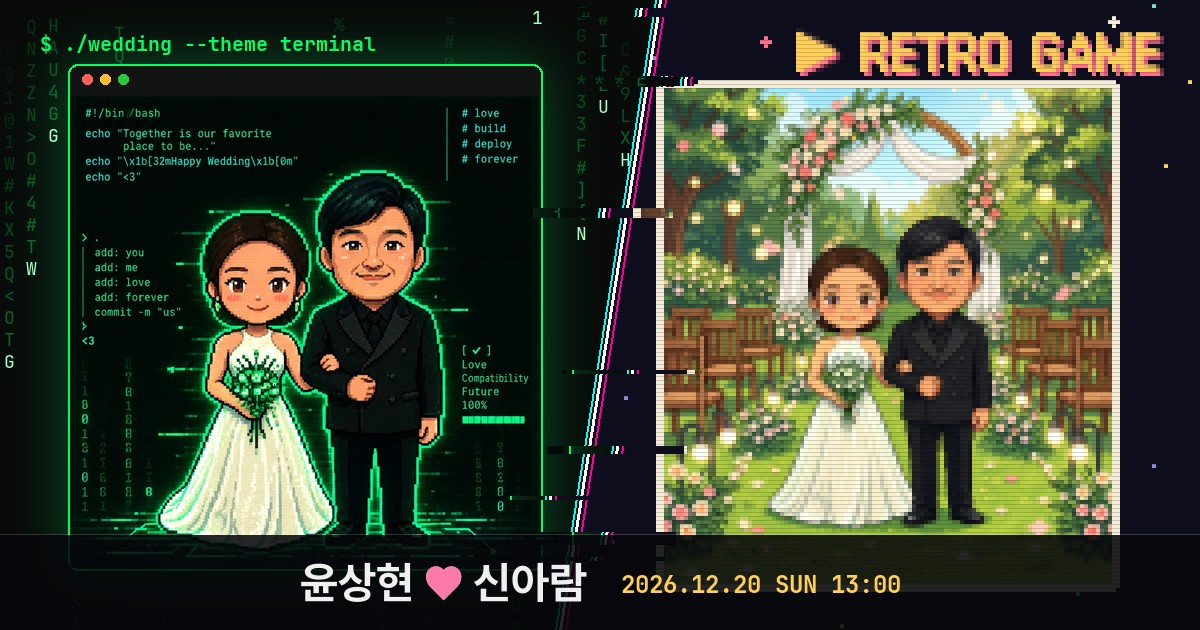
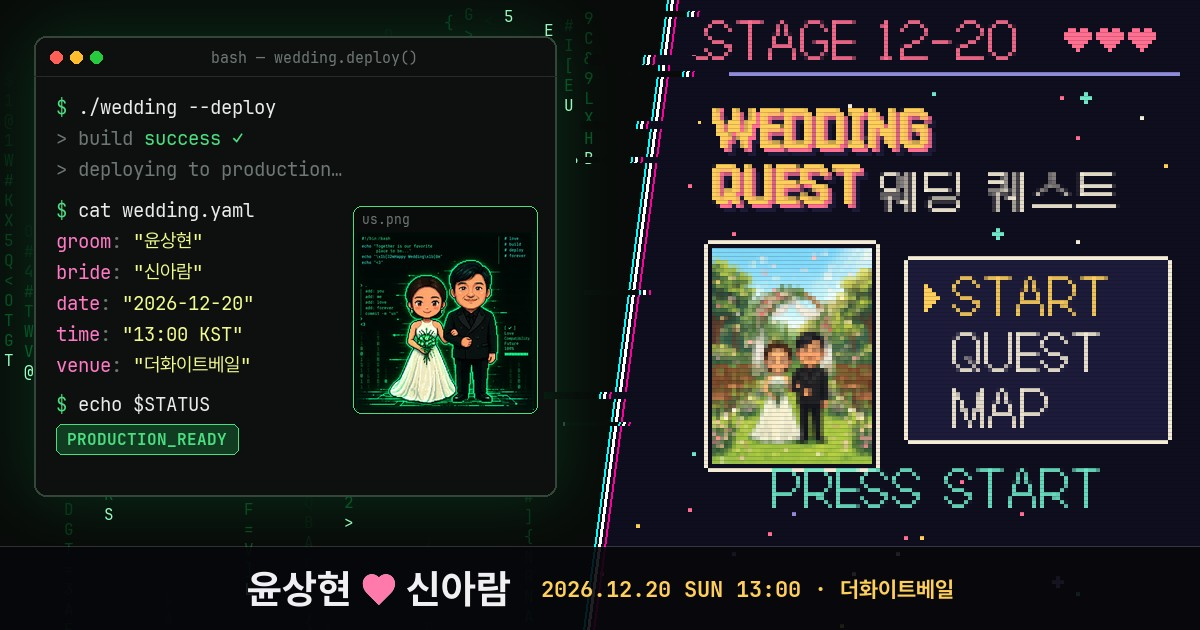
🎬 반반 썸네일을 터미널/레트로 UI 위주로 재디자인, 부팅 후 청첩장이 부드럽게 등장
- images/og-split.jpg (v2): 사진은 작게, 왼쪽은 터미널 창·YAML·STATUS, 오른쪽은 STAGE HUD·픽셀 로고·게임 메뉴·PRESS START
- 부팅 페이지가 넘길 때 sessionStorage 표시를 남기고, 터미널·레트로 청첩장은 그 경우에만 검은 화면에서 1.1초 동안 밝아지며 내용이 살짝 떠오르며 등장

diff --git a/terminal.html b/terminal.html
@@ -262,6 +262,28 @@
             .cursor, .hero-top .live::before, .scroll-hint::after, .sound-btn .eq i { animation: none !important; }
         }
     </style>
+    <style>
+        .boot-veil { position: fixed; inset: 0; z-index: 2147483000; pointer-events: none; background: #050506;
+            animation: boot-unveil 1.1s cubic-bezier(.4, 0, .2, 1) .05s forwards; }
+        html.from-boot body > main, html.from-boot body > .wrap { animation: boot-rise 1.2s cubic-bezier(.2, .7, .2, 1) both; }
+        @keyframes boot-unveil { to { opacity: 0; visibility: hidden; } }
+        @keyframes boot-rise { from { opacity: 0; transform: translateY(10px); } }
+        @media (prefers-reduced-motion: reduce) { .boot-veil { animation-duration: .01s; } html.from-boot body > main, html.from-boot body > .wrap { animation: none; } }
+    </style>
+    <script>
+        // 부팅 페이지(/)에서 넘어온 경우에만 검은 화면에서 부드럽게 밝아지며 등장
+        try {
+            if (sessionStorage.getItem('wedding-boot')) {
+                sessionStorage.removeItem('wedding-boot');
+                document.documentElement.classList.add('from-boot');
+                const veil = document.createElement('div');
+                veil.className = 'boot-veil';
+                veil.addEventListener('animationend', () => veil.remove());
+                document.addEventListener('DOMContentLoaded', () => document.body.appendChild(veil));
+                document.documentElement.appendChild(veil);   // cover the very first paint, moved into <body> once it exists
+            }
+        } catch {}
+    </script>
 </head>
 <body>
     <svg width="0" height="0" style="position:absolute" aria-hidden="true">

diff --git a/retro-game.html b/retro-game.html
@@ -226,6 +226,28 @@
             .bgm[aria-pressed="true"] .note, .secret-box { animation: none; }
         }
     </style>
+    <style>
+        .boot-veil { position: fixed; inset: 0; z-index: 2147483000; pointer-events: none; background: #050506;
+            animation: boot-unveil 1.1s cubic-bezier(.4, 0, .2, 1) .05s forwards; }
+        html.from-boot body > main, html.from-boot body > .wrap { animation: boot-rise 1.2s cubic-bezier(.2, .7, .2, 1) both; }
+        @keyframes boot-unveil { to { opacity: 0; visibility: hidden; } }
+        @keyframes boot-rise { from { opacity: 0; transform: translateY(10px); } }
+        @media (prefers-reduced-motion: reduce) { .boot-veil { animation-duration: .01s; } html.from-boot body > main, html.from-boot body > .wrap { animation: none; } }
+    </style>
+    <script>
+        // 부팅 페이지(/)에서 넘어온 경우에만 검은 화면에서 부드럽게 밝아지며 등장
+        try {
+            if (sessionStorage.getItem('wedding-boot')) {
+                sessionStorage.removeItem('wedding-boot');
+                document.documentElement.classList.add('from-boot');
+                const veil = document.createElement('div');
+                veil.className = 'boot-veil';
+                veil.addEventListener('animationend', () => veil.remove());
+                document.addEventListener('DOMContentLoaded', () => document.body.appendChild(veil));
+                document.documentElement.appendChild(veil);   // cover the very first paint, moved into <body> once it exists
+            }
+        } catch {}
+    </script>
 </head>
 <body>
     <canvas id="stars" aria-hidden="true"></canvas>

diff --git a/index.html b/index.html
@@ -9,7 +9,7 @@
     <meta property="og:type" content="website">
     <meta property="og:title" content="윤상현 ♥ 신아람 결혼합니다">
     <meta property="og:description" content="2026.12.20 (일) 오후 1시 · 더화이트베일 3층 V홀">
-    <meta property="og:image" content="https://wedding-invitation-new-delta.vercel.app/images/og-split.jpg?v=1">
+    <meta property="og:image" content="https://wedding-invitation-new-delta.vercel.app/images/og-split.jpg?v=2">
     <meta property="og:image:width" content="1200">
     <meta property="og:image:height" content="630">
     <meta property="og:image:alt" content="터미널 버전과 레트로 게임 버전 청첩장 · 윤상현 ♥ 신아람 · 2026.12.20 SUN 13:00">
@@ -81,7 +81,7 @@
         const theme = PAGES[forced] ? forced : (crypto.getRandomValues(new Uint8Array(1))[0] % 2 ? 'retro' : 'terminal');
         const qs = params.toString();
         const target = PAGES[theme] + (qs ? '?' + qs : '') + location.hash;
-        const go = () => location.replace(target);
+        const go = () => { try { sessionStorage.setItem('wedding-boot', '1'); } catch {} location.replace(target); };
 
         if (window.matchMedia('(prefers-reduced-motion: reduce)').matches) return go();
 
